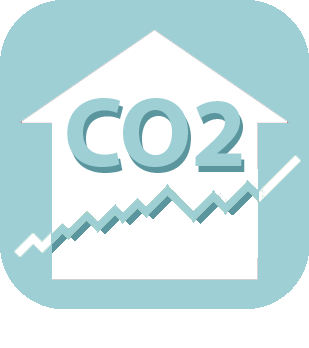
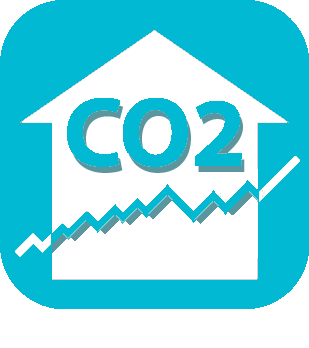
updade icone et mineur

diff --git a/docs/fr_FR/todo.md b/docs/fr_FR/todo.md
@@ -1,6 +1,6 @@
 # TO DO
 
-- surveiller au prochain changement d'heure si les infos deconnent pas...
+- surveiller au prochain changement d'heure si les infos deconnent pas... => done et OK
 - checker la mise en page pour differentes tailles d'écran et ajuster les dimensions
 - les boutons groupBy et choix de la période sont non cliquable sur écran trop peu larges...
 

diff --git a/docs/fr_FR/changelog.md b/docs/fr_FR/changelog.md
@@ -61,3 +61,8 @@
 - Toutes les fonctions des beta précédentes, principalement les interfaces avec le plugin SuiviConso
 - Debug cas plugin suivi conso inexistant
 - Tests en v3 et v4 avec le plugin suivi conso stable du 16/03/2020
+
+# 2.0.1
+
+- Changement icône
+- Vérif datas après le changement d'heure : all good !
